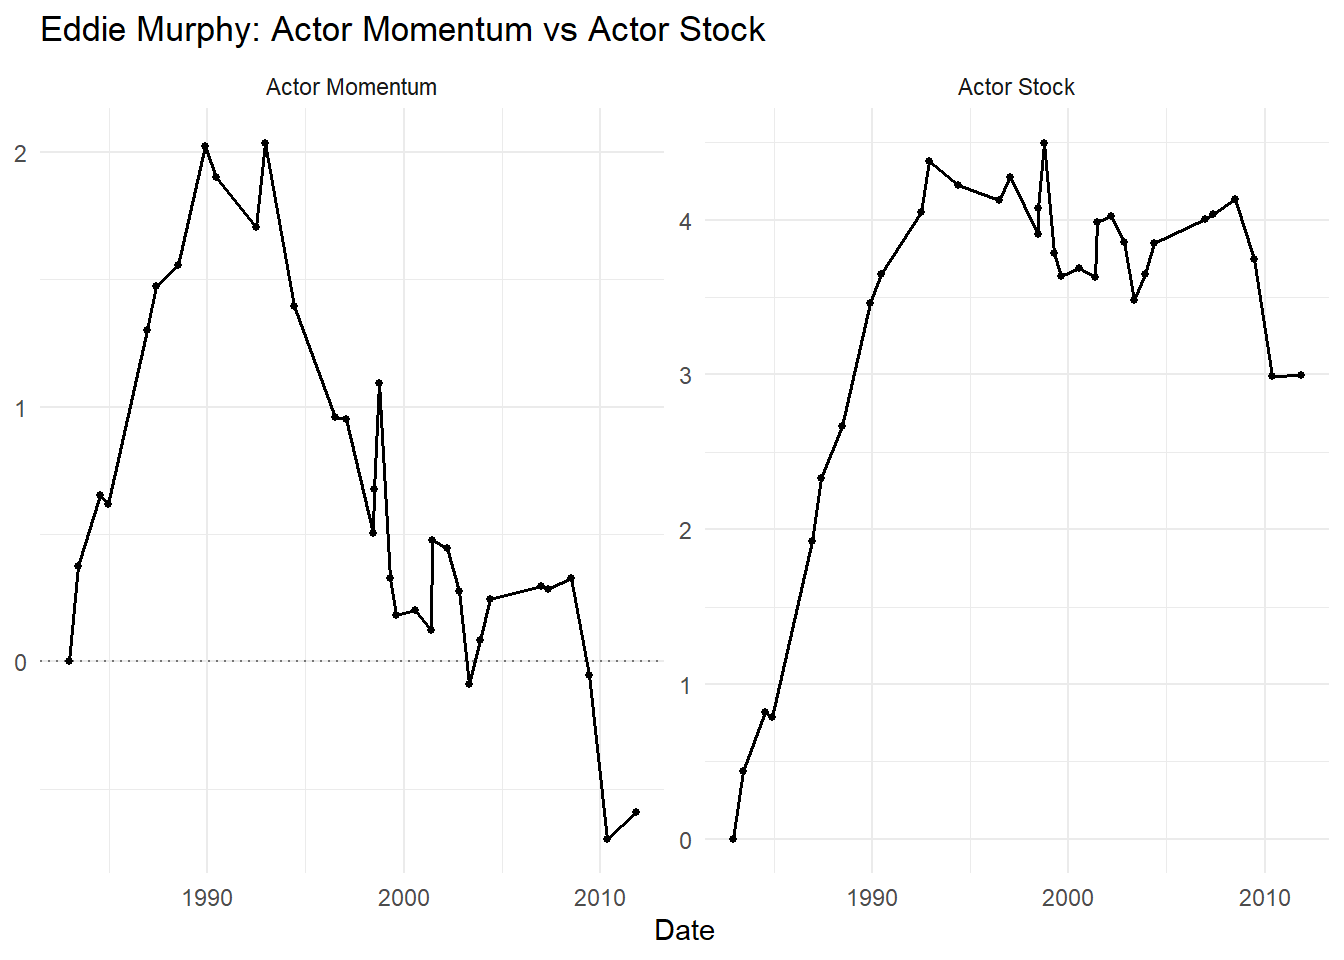
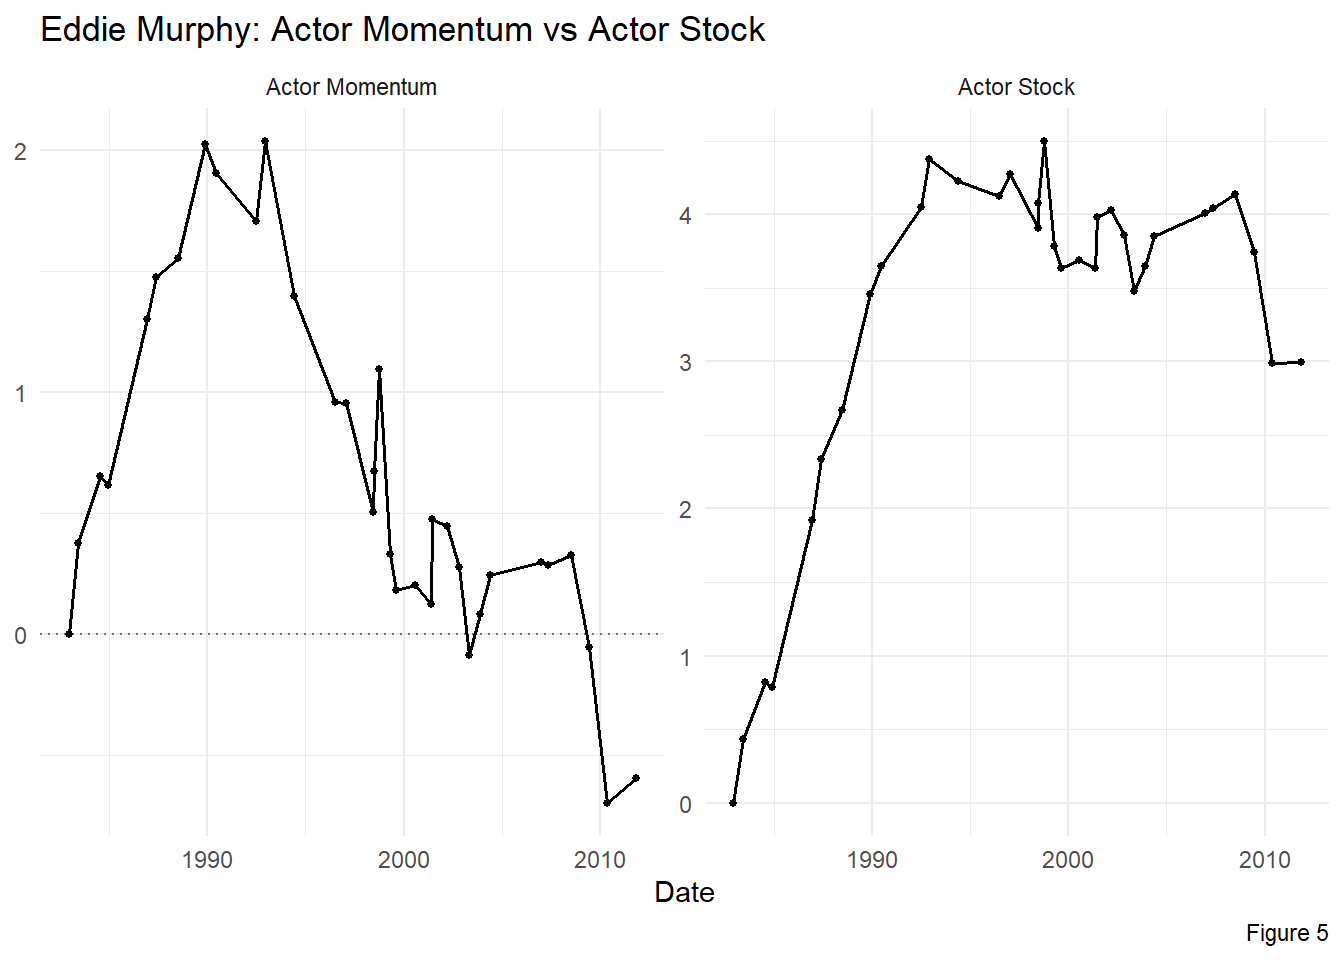
blogpost finalized 01/30

diff --git a/Code/Blogpost/blogpost.html b/Code/Blogpost/blogpost.html
@@ -146,9 +146,72 @@ ul.task-list li input[type="checkbox"] {
 </div>
 <p>Eddie Murphy emerged as a superstar in the 80s, driven by a run of highly successful films such as Trading Places and Beverly Hills Cop. In the 1990s, however, his commercial performance became more uneven, with periods of weaker box-office results punctuated by occasional successes. This career arc is a usual illustration of the ups and downs that are commonplace in acting. While Actor Stock reflects the cumulative built in his early 80s peak, Actor Momentum is flexible and able to adapt to downturns demonstrating how these two metrics capture distinct aspects of star power over time.</p>
 <p>After constructing actor-level stock and momentum measures, we collapse these quantities back to the movie level to make them usable alongside film attributes and IP metrics. For each film, actor contributions are combined using the same billing-weight scheme used in attribution: 40% to the lead, 25% to the second-billed actor, and the remaining 35% split evenly across the next three. This produces a single, weighted actor stock value and a single, weighted actor momentum value for each movie, both based exclusively on information available prior to release.</p>
-<p>At this point, every film is characterized by four pre-release explanatory measures—IP Stock, IP Momentum, Actor Stock, and Actor Momentum—allowing all subsequent analysis to proceed at the movie level without revisiting cast-level structure.</p>
+<p>At this point, every film is characterized by four pre-release explanatory measures, IP Stock, IP Momentum, Actor Stock, and Actor Momentum, allowing all subsequent analysis to proceed at the movie level without revisiting cast-level structure.</p>
 </section>
 </section>
+</section>
+<section id="methodology" class="level1">
+<h1>Methodology</h1>
+<p>To examine how the influence of IP and actor-related factors changes over time, we use a generalized additive model (GAM). This approach allows each variable’s effect to vary smoothly with release year, capturing gradual shifts in audience preferences and industry structure without imposing a fixed parametric form. We also center and scale all IP and actor related factors, this allows for direct comparison across effects.</p>
+</section>
+<section id="results" class="level1">
+<h1>Results</h1>
+<p>After model selection we ended up with a model with year, budget, IP Momentum (smoothed over year) and Actor Momentum (smoothed over year) all being statistically significant. IP Momentum and Actor Momentum have statistically significant effects over time. Let’s see what that looks like:</p>
+<div class="cell">
+<div class="cell-output cell-output-stdout">
+<pre><code>[1] "s(year_c):ip_z"    "s(year_c):actor_z"</code></pre>
+</div>
+</div>
+<div class="cell">
+<div class="cell-output-display">
+<p><img src="blogpost_files/figure-html/unnamed-chunk-17-1.png" class="img-fluid" width="672"></p>
+</div>
+</div>
+<p>Figure 6 shows the estimated time-varying effects of Actor Momentum and IP Momentum on log profitability conditional on year fixed effects.</p>
+<p>Actor Momentum exhibits a hump shaped pattern. Its marginal effect rises through the 1970s peaking in the late 1980s then declining steadily until 2010. From 2010 to 2024, the estimated effect increases modestly and approaches levels comparable to its earlier peak; however, this late-period increase is accompanied by wider confidence intervals, reflecting greater uncertainty in recent years.</p>
+<p>In contrast, IP Momentum displays an approximately linear upward trend over the sample period. Between 1970 and 2024, the marginal effect of IP Momentum on log profitability nearly doubles. At all points in time, the effect remains statistically different from zero, indicating that films associated with stronger IP momentum consistently outperform weaker-IP films within the same release year.</p>
+<p>Taken together, these results suggest a shift in the sources of within-year box-office differentiation, away from actor-driven momentum and toward increasingly dominant IP-based advantages.</p>
+<p>An interesting plot to consider is the difference between these two effects over time:</p>
+<div class="cell">
+<div class="cell-output-display">
+<p><img src="blogpost_files/figure-html/unnamed-chunk-18-1.png" class="img-fluid" width="672"></p>
+</div>
+</div>
+<p>Figure 7 plots the estimated difference between the time-varying marginal effects of IP Momentum and Actor Momentum on log profitability. Positive values indicate periods in which IP Momentum has a larger within-year profitability effect than Actor Momentum. The estimated difference crosses below zero only during the early 1980s through the early 1990s, indicating a period in which actor momentum was at least as important as IP momentum in differentiating film profitability. After this period, IP Momentum consistently exhibits a larger marginal effect, increasing steadily through the 2000s before leveling off in the early 2010s. Although uncertainty is relatively wide throughout the sample, the confidence interval excludes zero for much of the period from roughly 2000 to 2015, providing evidence that IP Momentum was the dominant driver of within-year profitability during this era. Overall, the figure indicates that IP Momentum has exerted a larger profitability effect than Actor Momentum since the mid-1990s.</p>
+</section>
+<section id="interpretation-implications" class="level1">
+<h1>Interpretation &amp; Implications</h1>
+<p>Since each production company face finite budgets decisions about how much to allocate to intellectual property versus cast strength are trade-offs. Understanding whether IP strength or cast strength are more strongly associated with excess performance is invaluable when production budgets are in the hundreds of millions. As displayed in the previous section IP Momentum, a metric representing IP effect, has become a stronger predictor of profitability over time.</p>
+<div class="cell">
+<div class="cell-output-display">
+<p><img src="blogpost_files/figure-html/unnamed-chunk-19-1.png" class="img-fluid" width="672"></p>
+</div>
+</div>
+<p>Consistent with this shift, the share of top 50 budgeted films associated with an established IP has riven steadily since the early 2000s (Figure 8).</p>
+<p>In the results section we also saw Actor Momentum’s effect on profitability decline after a peak near the turn of 1990.</p>
+<div class="cell">
+<div class="cell-output-display">
+<p><img src="blogpost_files/figure-html/unnamed-chunk-20-1.png" class="img-fluid" width="672"></p>
+</div>
+</div>
+<p>In line with that decline, the Actor Momentum in casts of Top 50 budgeted movies has steadily declined since its peak in 1995 (Figure 9).</p>
+<p>Taken together, these results suggest a shift in the relative importance of intellectual property and cast-related factors among the highest-budgeted films since the mid-1990s. As the association between IP-related momentum and profitability has strengthened over time, the share of top-budgeted releases tied to established IP has also increased, while measures of actor momentum indicate a reduced role for densely stacked casts. Although there is some indication of a modest rebound in actor-related effects in recent years, it remains an open question whether this reflects a persistent change or a temporary fluctuation.</p>
+</section>
+<section id="limitations" class="level1">
+<h1>Limitations</h1>
+<p>This analysis is intended to provide descriptive insight into how actor- and IP-related effects have evolved over time, and several limitations should be kept in mind when interpreting the results.</p>
+<ul>
+<li><p>Scope of IP measurement: IP effects are measured only through prior film releases in a franchise. Intellectual property originating in other media, such as books, television series or video games is not captured. This may understate IP strength for certain titles.</p></li>
+<li><p>Early period data constraints: Data availability before the 1970s is limited, making estimates of actor and IP effects in the early years of our sample less precise</p></li>
+<li><p>Unobserved drivers of profitability: Movie profitability is influenced by many factors not included in the model, such as directors, production companies, release timing, and competition in the box office. Incorporating these elements would require an expansion of scope beyond the goals of this project.</p></li>
+<li><p>Cost and revenue opacity: Publicly available financial data are not reported at a granular level, limiting visibility into marketing expenditures, cast compensation, backend participation, and other contractual arrangements that may affect both budgets and profitability.</p></li>
+</ul>
+<p>Despite these limitations, the framework provides a consistent way to compare the evolving roles of IP and cast factors within the high budget theatrical market.</p>
+</section>
+<section id="conclusion" class="level1">
+<h1>Conclusion</h1>
+<p>At the start of this project, we pointed to a familiar observation: big movies today seem to rely more on intellectual property and less on star-studded casts. Looking across several decades of high-budget releases, the data largely support that intuition. Over time, recent franchise performance has become increasingly associated with profitability, and the share of top-budget films tied to established IP has risen steadily since the early 2000s. Over the same period, short-run actor momentum effects on profitability have declined, and actor momentum within casts has also fallen, indicating that modern ensembles are less densely packed with high-momentum stars than in earlier decades.</p>
+<p>However, this does not spell the end of the movie star or the original movie. The growth of streaming platforms has expanded the space for lower budget original projects, reducing risk for producers while creating new opportunities for actors outside of theatrical blockbusters. At the same time, releasing a large budget film in theaters during this post pandemic landscape remains a high risk endeavor. Relying on established IP is an appealing way to hedge against downside risk.</p>
 </section>
 
 </main>
